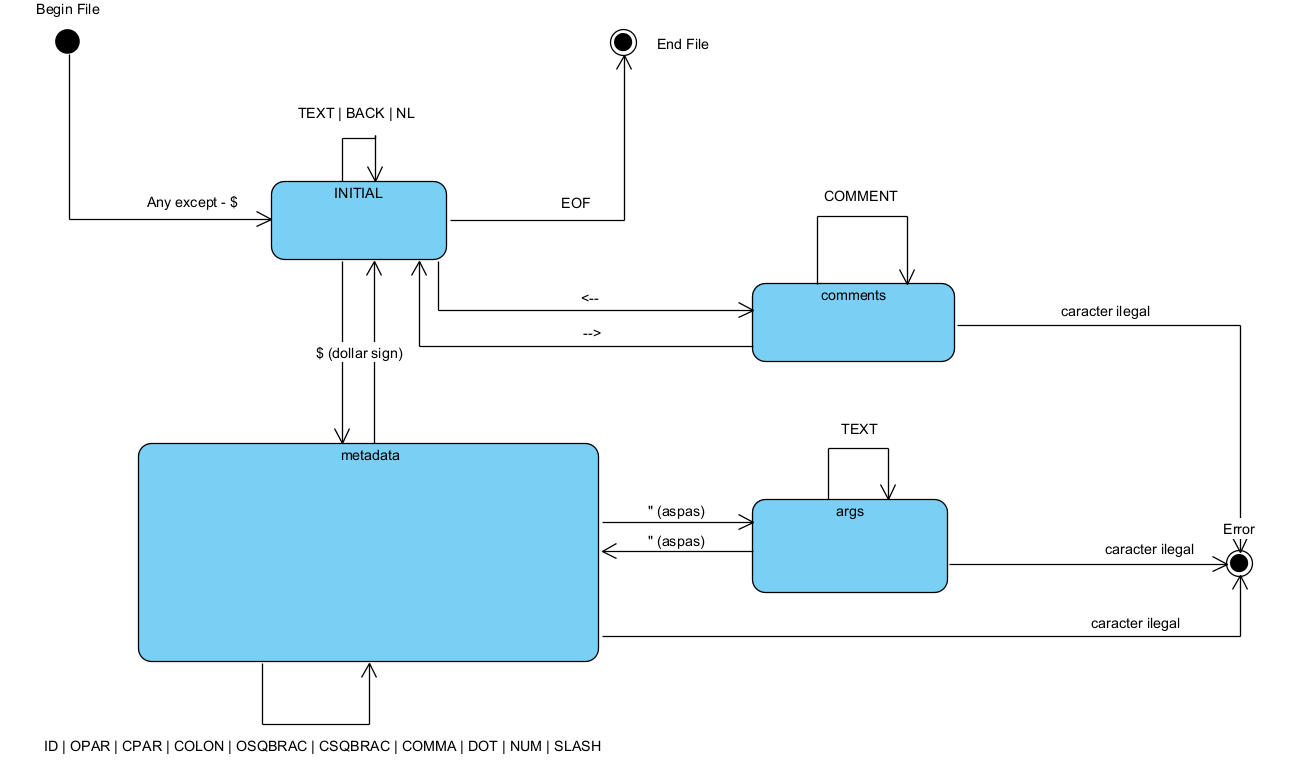
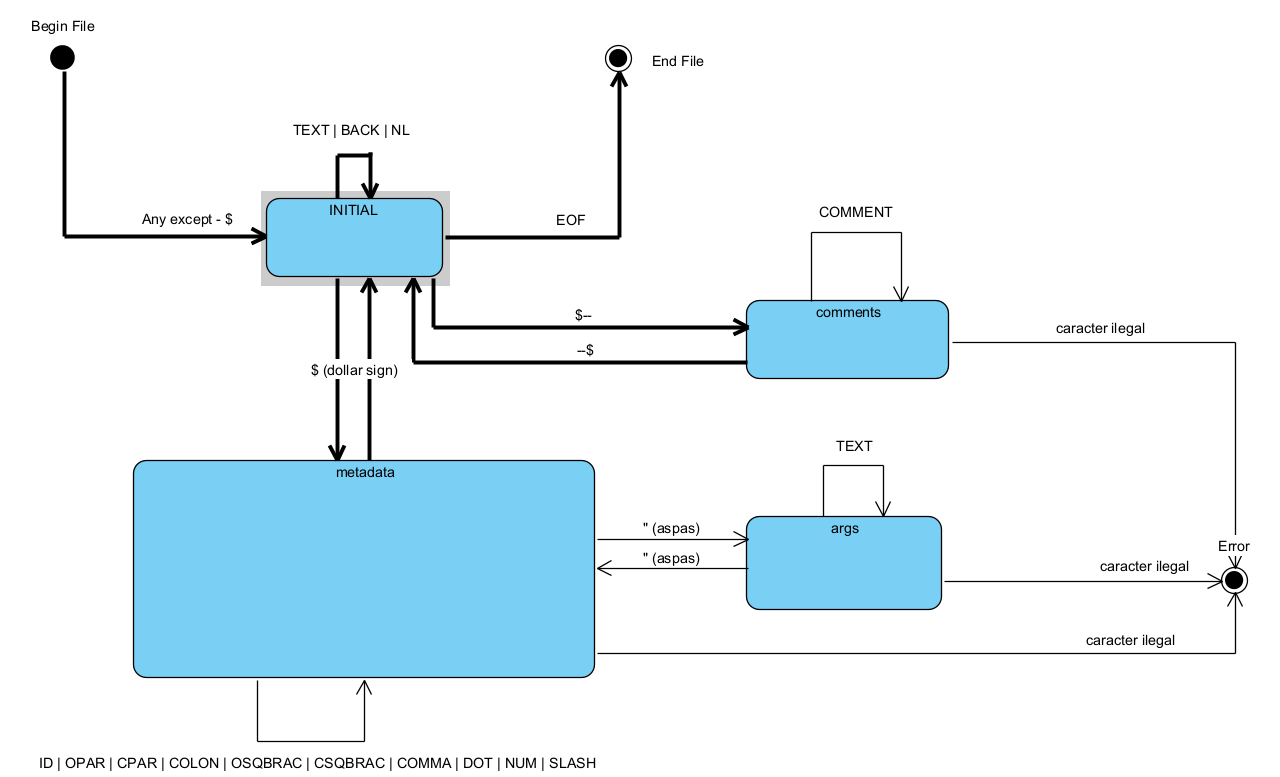
correçao de erros

Changed region(s): [[0.0312, 0.0, 0.9688, 0.9067], [0.0312, 0.9369, 0.4688, 0.9974]]

diff --git a/docs/hdoc/state.tex b/docs/hdoc/state.tex
@@ -25,7 +25,7 @@
         \item \textit{QUO :} O caracter " (aspas).
         \item \textit{NL :} Conjunto de \textit{newlines} - "$\backslash$n".
         \item \textit{OCOMMENT CCOMMENT: } Abertura e fecho de um comentário.
-        \item \textit{COMMENT: } Qualquer conjunto de caracter até encontrar "-->"
+        \item \textit{COMMENT: } Qualquer conjunto de caracter até encontrar "--\$"
     \end{itemize}
 
     Adicionadas aos \textit{tokens}, mas cujo o significado foi abordado
